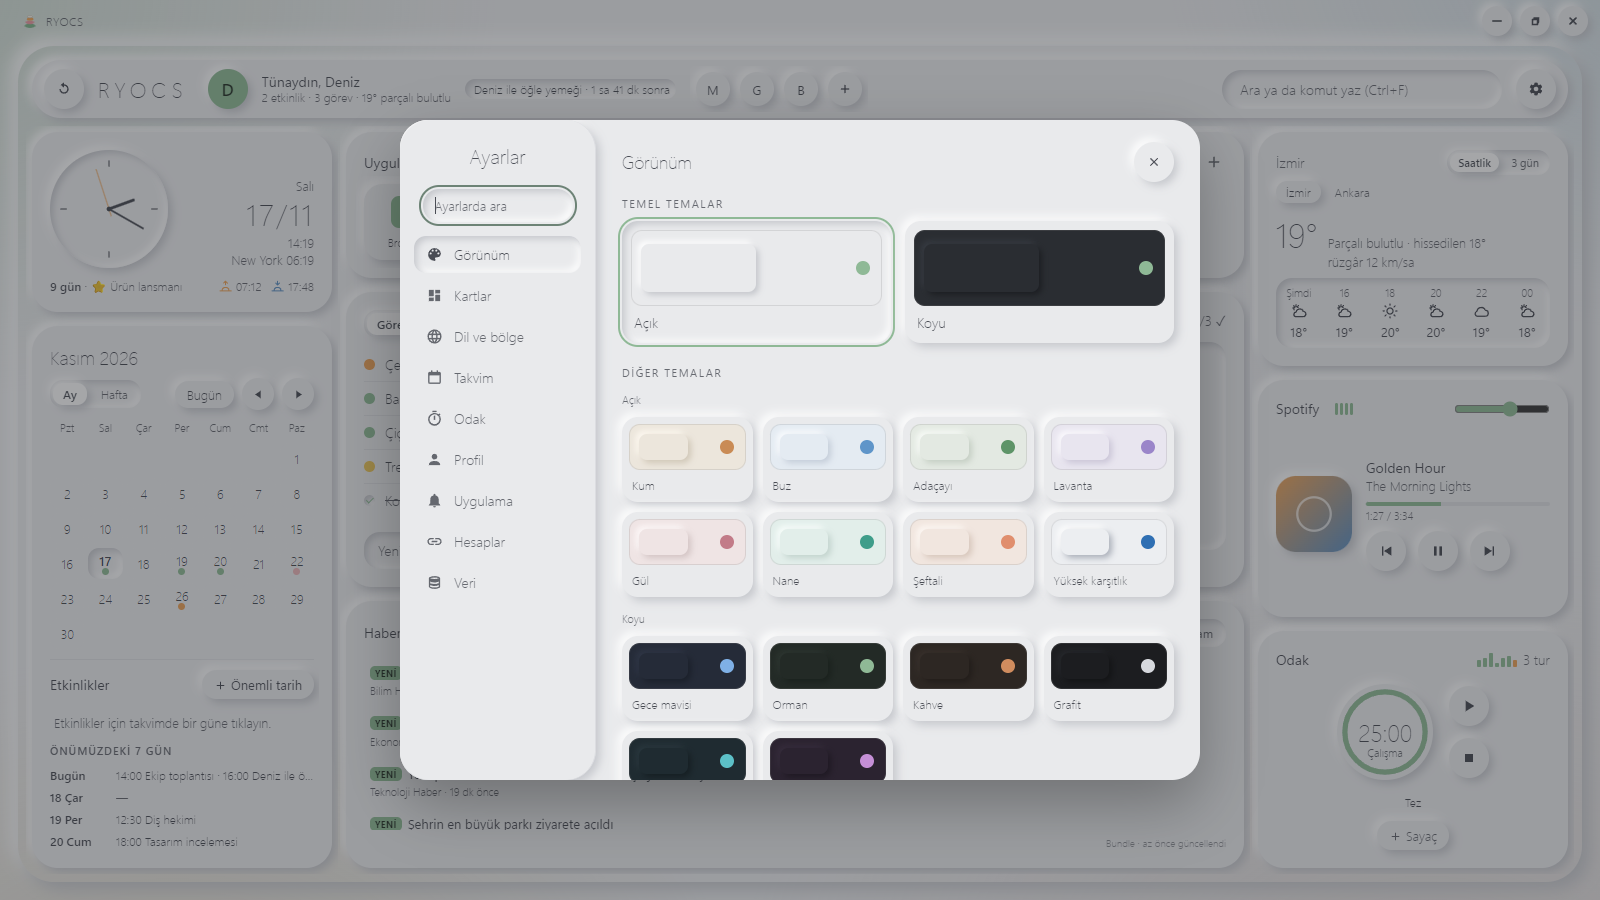
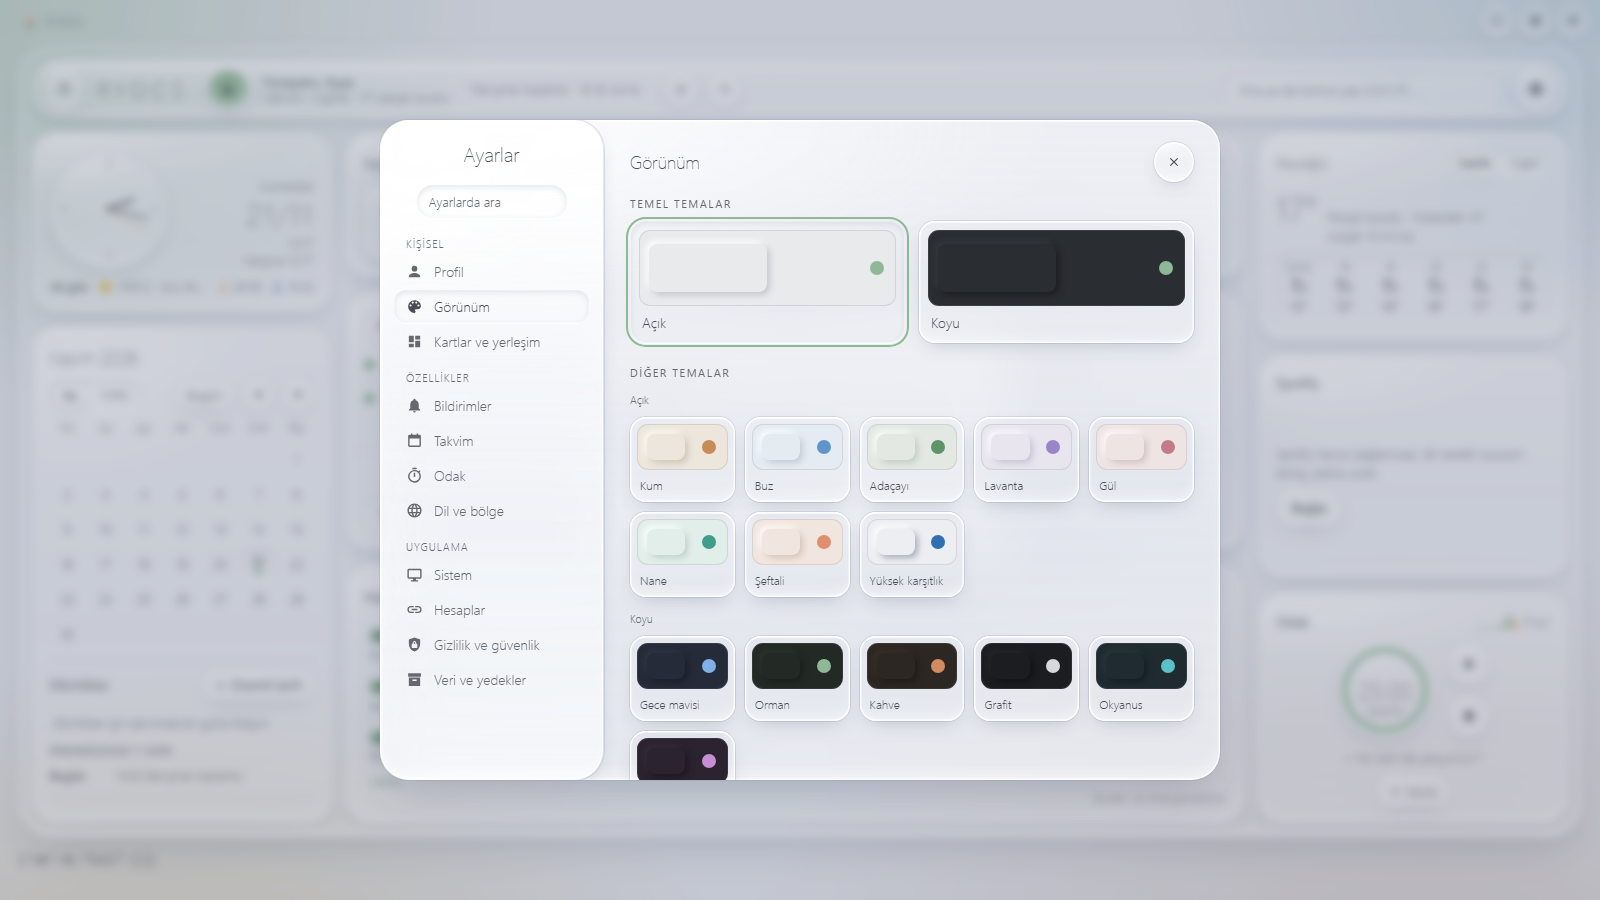
New settings names in hints and docs, fresh settings screenshots

diff --git a/src/ui.html b/src/ui.html
@@ -2305,7 +2305,7 @@ function kartAyar(k){
     :tur==='sayi'?`<input class="in" type="number" data-a="${key}" min="${sec[0]}" max="${sec[1]}" value="${v}" aria-label="${ad}">`
     :`<input class="in" data-a="${key}" maxlength="200" value="${esc(v)}" aria-label="${ad}">`)+'</div>'};
   const d=pencere(`<div class="ic"><div class="dh"><h1>${KART_AD[k]}${L(' ayarları</h1><button class="rb" data-kapat aria-label="Kapat" title="Kapat (Esc)">',' settings</h1><button class="rb" data-kapat aria-label="Close" title="Close (Esc)">')}${SVG(IKON.kapat)}</button></div>`
-    +`${L('<div class="ar"><span>Kartı göster<small>kapatılan kart Ayarlar → Kartlar\'dan yeniden açılır</small></span><button class="sw" role="switch" data-kg="','<div class="ar"><span>Show card<small>a closed card can be reopened from Settings → Cards</small></span><button class="sw" role="switch" data-kg="')}${k}" aria-checked="${kartAcik(k)}" aria-label="${KART_AD[k]}${L(' kartını göster"></button></div>',' card"></button></div>')}`
+    +`${L('<div class="ar"><span>Kartı göster<small>kapatılan kart Ayarlar → Kartlar ve yerleşim\'den yeniden açılır</small></span><button class="sw" role="switch" data-kg="','<div class="ar"><span>Show card<small>a closed card can be reopened from Settings → Cards and layout</small></span><button class="sw" role="switch" data-kg="')}${k}" aria-checked="${kartAcik(k)}" aria-label="${KART_AD[k]}${L(' kartını göster"></button></div>',' card"></button></div>')}`
     +a.ayar.map(sat).join('')+(a.gizle.length?L('<h3>Kartta göster</h3>','<h3>Show on card</h3>'):'')
     +a.gizle.map(([id,ad])=>`<div class="ar"><span>${ad}</span><button class="sw" role="switch" data-g="${id}" aria-checked="${!gz.includes(id)}" aria-label="${ad}"></button></div>`).join('')
     +L('<p class="m kaIpucu">Bu pencereyi kartta boş bir yere sağ tıklayarak da açabilirsin.</p></div>','<p class="m kaIpucu">You can also open this window by right-clicking an empty spot on the card.</p></div>'));
@@ -3085,9 +3085,9 @@ function esitleYaz(r){
     klasor_yok:L('OneDrive klasörü bulunamadı','OneDrive folder not found'),catisma:L('iki bilgisayarda farklı değişiklik var: eşitleme bekliyor','different changes on two computers: sync is waiting')}[v.durum]||L('durum okunamadı: ','could not read status: ')+String(r.durum).slice(0,80);
   return v;
 }
-function esitleBildir(){const d=esDurum;esDurum='';if(d==='guncellendi')tost(L('OneDrive\'daki daha yeni veri alındı','Loaded the newer data from OneDrive'));else if(d==='catisma')esitleSor();else if(d==='parola')tost(L('OneDrive kopyası parolalı: Ayarlar → Veri → Parola…','The OneDrive copy has a password: Settings → Data → Password…'))} // once at startup
+function esitleBildir(){const d=esDurum;esDurum='';if(d==='guncellendi')tost(L('OneDrive\'daki daha yeni veri alındı','Loaded the newer data from OneDrive'));else if(d==='catisma')esitleSor();else if(d==='parola')tost(L('OneDrive kopyası parolalı: Ayarlar → Veri ve yedekler → Parola…','The OneDrive copy has a password: Settings → Data and backups → Password…'))} // once at startup
 async function esitleSor(){
-  const d=pencere(`${L('<div class="ic"><h1>Eşitleme çakışması</h1><p class="m">Bu bilgisayardaki veri ile OneDrive\'daki veri birbirinden farklı değişmiş. Hangisi kalsın? Diğeri silinmez: Ayarlar → Veri → "Yedekten geri yükle" listesinde durur.</p>','<div class="ic"><h1>Sync conflict</h1><p class="m">The data on this computer and on OneDrive changed differently. Which one should stay? The other is not deleted: it stays in Settings → Data → "Restore from backup".</p>')}`
+  const d=pencere(`${L('<div class="ic"><h1>Eşitleme çakışması</h1><p class="m">Bu bilgisayardaki veri ile OneDrive\'daki veri birbirinden farklı değişmiş. Hangisi kalsın? Diğeri silinmez: Ayarlar → Veri ve yedekler → "Yedekten geri yükle" listesinde durur.</p>','<div class="ic"><h1>Sync conflict</h1><p class="m">The data on this computer and on OneDrive changed differently. Which one should stay? The other is not deleted: it stays in Settings → Data and backups → "Restore from backup".</p>')}`
     +`${L('<div class="db"><button class="btn" data-kapat>Sonra</button><button class="btn" data-es="uzak">OneDrive\'daki</button><button class="btn ana" data-es="yerel">Bu bilgisayardaki</button></div></div>','<div class="db"><button class="btn" data-kapat>Later</button><button class="btn" data-es="uzak">The OneDrive one</button><button class="btn ana" data-es="yerel">This computer\'s</button></div></div>')}`);
   d.onclick=async e=>{const s=e.target.dataset?.es;if(!s)return;kapat(d);
     if(s==='uzak')return veriDegistir('/api/esitle',{sec:'uzak'});
@@ -3442,7 +3442,7 @@ function turGoster(){
     L('Google Takvim, Gmail ve Spotify için Ayarlar → Hesaplar.','Connect Google Calendar, Gmail and Spotify in Settings → Accounts.')].map(t=>`<li>${t}</li>`).join('')}</ul><div class="db"><button class="btn ana" data-kapat>${L('Anladım','Got it')}</button></div></div>`);
   $('#sor [data-kapat]').focus();
 }
-async function adSor(){const v=await sor(L('Hoş geldin','Welcome'),[{ad:L('Adın','Your name'),ipucu:L('Sana nasıl hitap edelim?','What should we call you?')}],L('Başla','Start'),L('RYOCS seni adınla selamlasın. Sonradan Ayarlar → Genel’den değiştirebilirsin.','RYOCS will greet you by name. You can change it later in Settings → General.'));adKaydet(v?.[0]);setTimeout(turGoster,animMs(200))}
+async function adSor(){const v=await sor(L('Hoş geldin','Welcome'),[{ad:L('Adın','Your name'),ipucu:L('Sana nasıl hitap edelim?','What should we call you?')}],L('Başla','Start'),L('RYOCS seni adınla selamlasın. Sonradan Ayarlar → Profil’den değiştirebilirsin.','RYOCS will greet you by name. You can change it later in Settings → Profile.'));adKaydet(v?.[0]);setTimeout(turGoster,animMs(200))}
 // Profile: avatar (photo or initial) and PIN lock.
 // The PIN is stored only as a salted SHA-256 hash; this is a privacy lock, data.json is not encrypted.
 function avatarHtml(){const f=A('foto'),a=(A('ad')||'').trim();

diff --git a/docs/index.html b/docs/index.html
@@ -129,7 +129,7 @@ dialog img{display:block;max-width:100%;max-height:92vh;border-radius:12px}
   <p class="lead" data-tr="Yalnız senin kullanıcına kurulur, yönetici izni gerekmez.">Installs for your user only, no admin rights needed.</p>
   <div class="steps">
     <div><h3 data-tr="İndir">Download</h3><p data-tr="&lt;a href=&quot;https://github.com/ryocs15/ryocs/releases/latest&quot;&gt;Son sürümden&lt;/a&gt; &lt;code&gt;RYOCS-Setup.exe&lt;/code&gt; dosyasını indirip çalıştır. SmartScreen uyarırsa &lt;em&gt;Ek bilgi → Yine de çalıştır&lt;/em&gt;ı seç.">Get <code>RYOCS-Setup.exe</code> from the <a href="https://github.com/ryocs15/ryocs/releases/latest">latest release</a> and run it. If SmartScreen warns, choose <em>More info → Run anyway</em>.</p></div>
-    <div><h3 data-tr="Kartlarını seç">Pick your cards</h3><p data-tr="Hava, haberler ve kurlar hemen çalışır. Kartları açıp kapatmak için &lt;em&gt;Ayarlar → Kartlar&lt;/em&gt;.">Weather, news and rates work right away. Open <em>Settings → Cards</em> to switch cards on or off.</p></div>
+    <div><h3 data-tr="Kartlarını seç">Pick your cards</h3><p data-tr="Hava, haberler ve kurlar hemen çalışır. Kartları açıp kapatmak için &lt;em&gt;Ayarlar → Kartlar ve yerleşim&lt;/em&gt;.">Weather, news and rates work right away. Open <em>Settings → Cards and layout</em> to switch cards on or off.</p></div>
     <div><h3 data-tr="Hesaplarını bağla">Connect accounts</h3><p data-tr="Google Takvim, Gmail ya da Spotify için &lt;em&gt;Ayarlar → Hesaplar&lt;/em&gt;daki adım adım kurulumu ya da &lt;a href=&quot;https://github.com/ryocs15/ryocs#connecting-accounts&quot;&gt;rehberi&lt;/a&gt; izle. Ücretsizdir; anahtarların bilgisayarında kalır.">For Google Calendar, Gmail or Spotify, follow the guided setup in <em>Settings → Accounts</em> or the <a href="https://github.com/ryocs15/ryocs#connecting-accounts">step-by-step guide</a>. It is free and your keys stay on your PC.</p></div>
   </div>
 </div></section>

diff --git a/README.md b/README.md
@@ -151,8 +151,8 @@ Pushing a tag such as `v0.3.0` builds the installer on GitHub Actions and attach
 - Data, credentials and tokens are stored only in `%APPDATA%\RYOCS` ([what is in each file](docs/DATA.md)).
 - The local server answers only requests from its own page.
 - Clipboard history is kept in memory only and skips content that password managers mark as private.
-- `data.json`, its backups and the client secrets are encrypted with Windows DPAPI: only your Windows account on this PC can open them. Use *Settings → Data → Export* for a plain copy (moving to another PC, Windows reinstall).
-- The OneDrive copy can be password-encrypted (*Settings → Data → Password…*); without a password it is plain JSON.
+- `data.json`, its backups and the client secrets are encrypted with Windows DPAPI: only your Windows account on this PC can open them. Use *Settings → Data and backups → Export* for a plain copy (moving to another PC, Windows reinstall).
+- The OneDrive copy can be password-encrypted (*Settings → Data and backups → Password…*); without a password it is plain JSON.
 - The PIN lock is a privacy screen on top of that.
 - The installer is not code-signed yet, so Windows SmartScreen may warn on first run ("More info → Run anyway").
 
